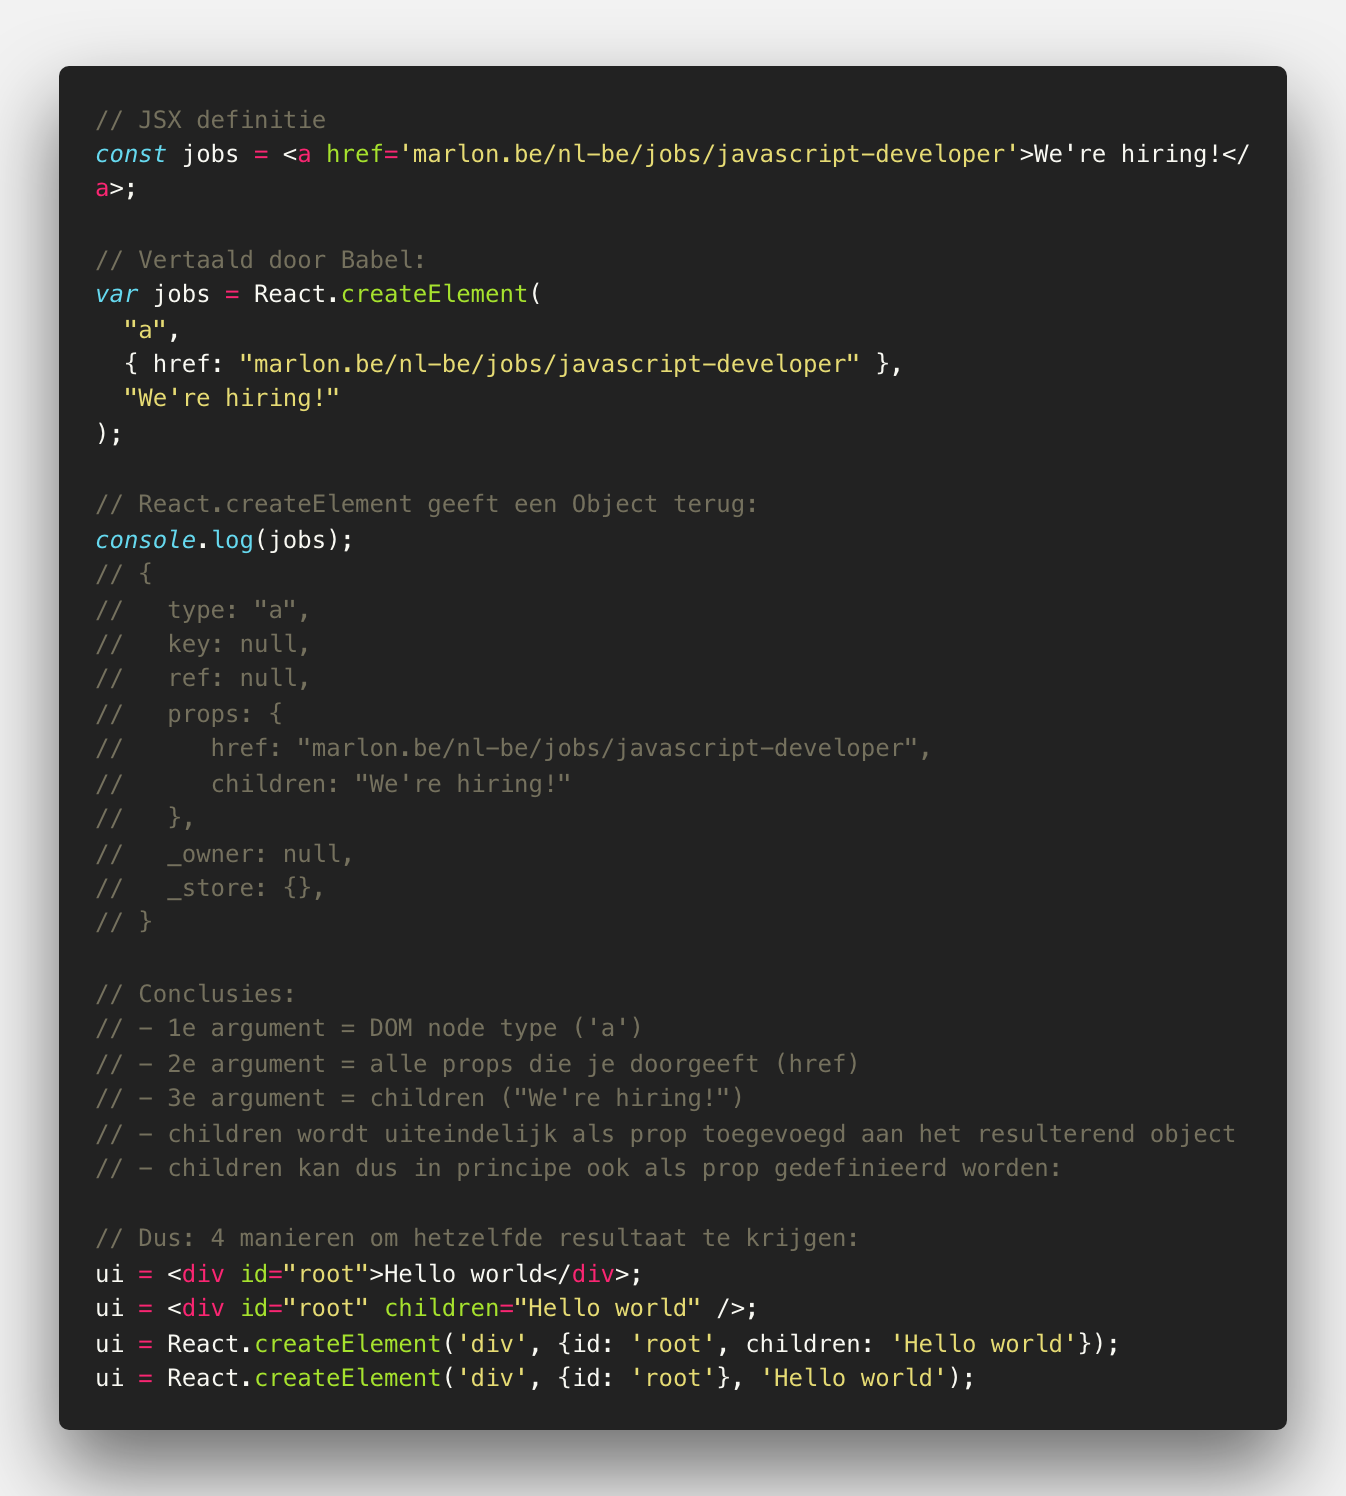
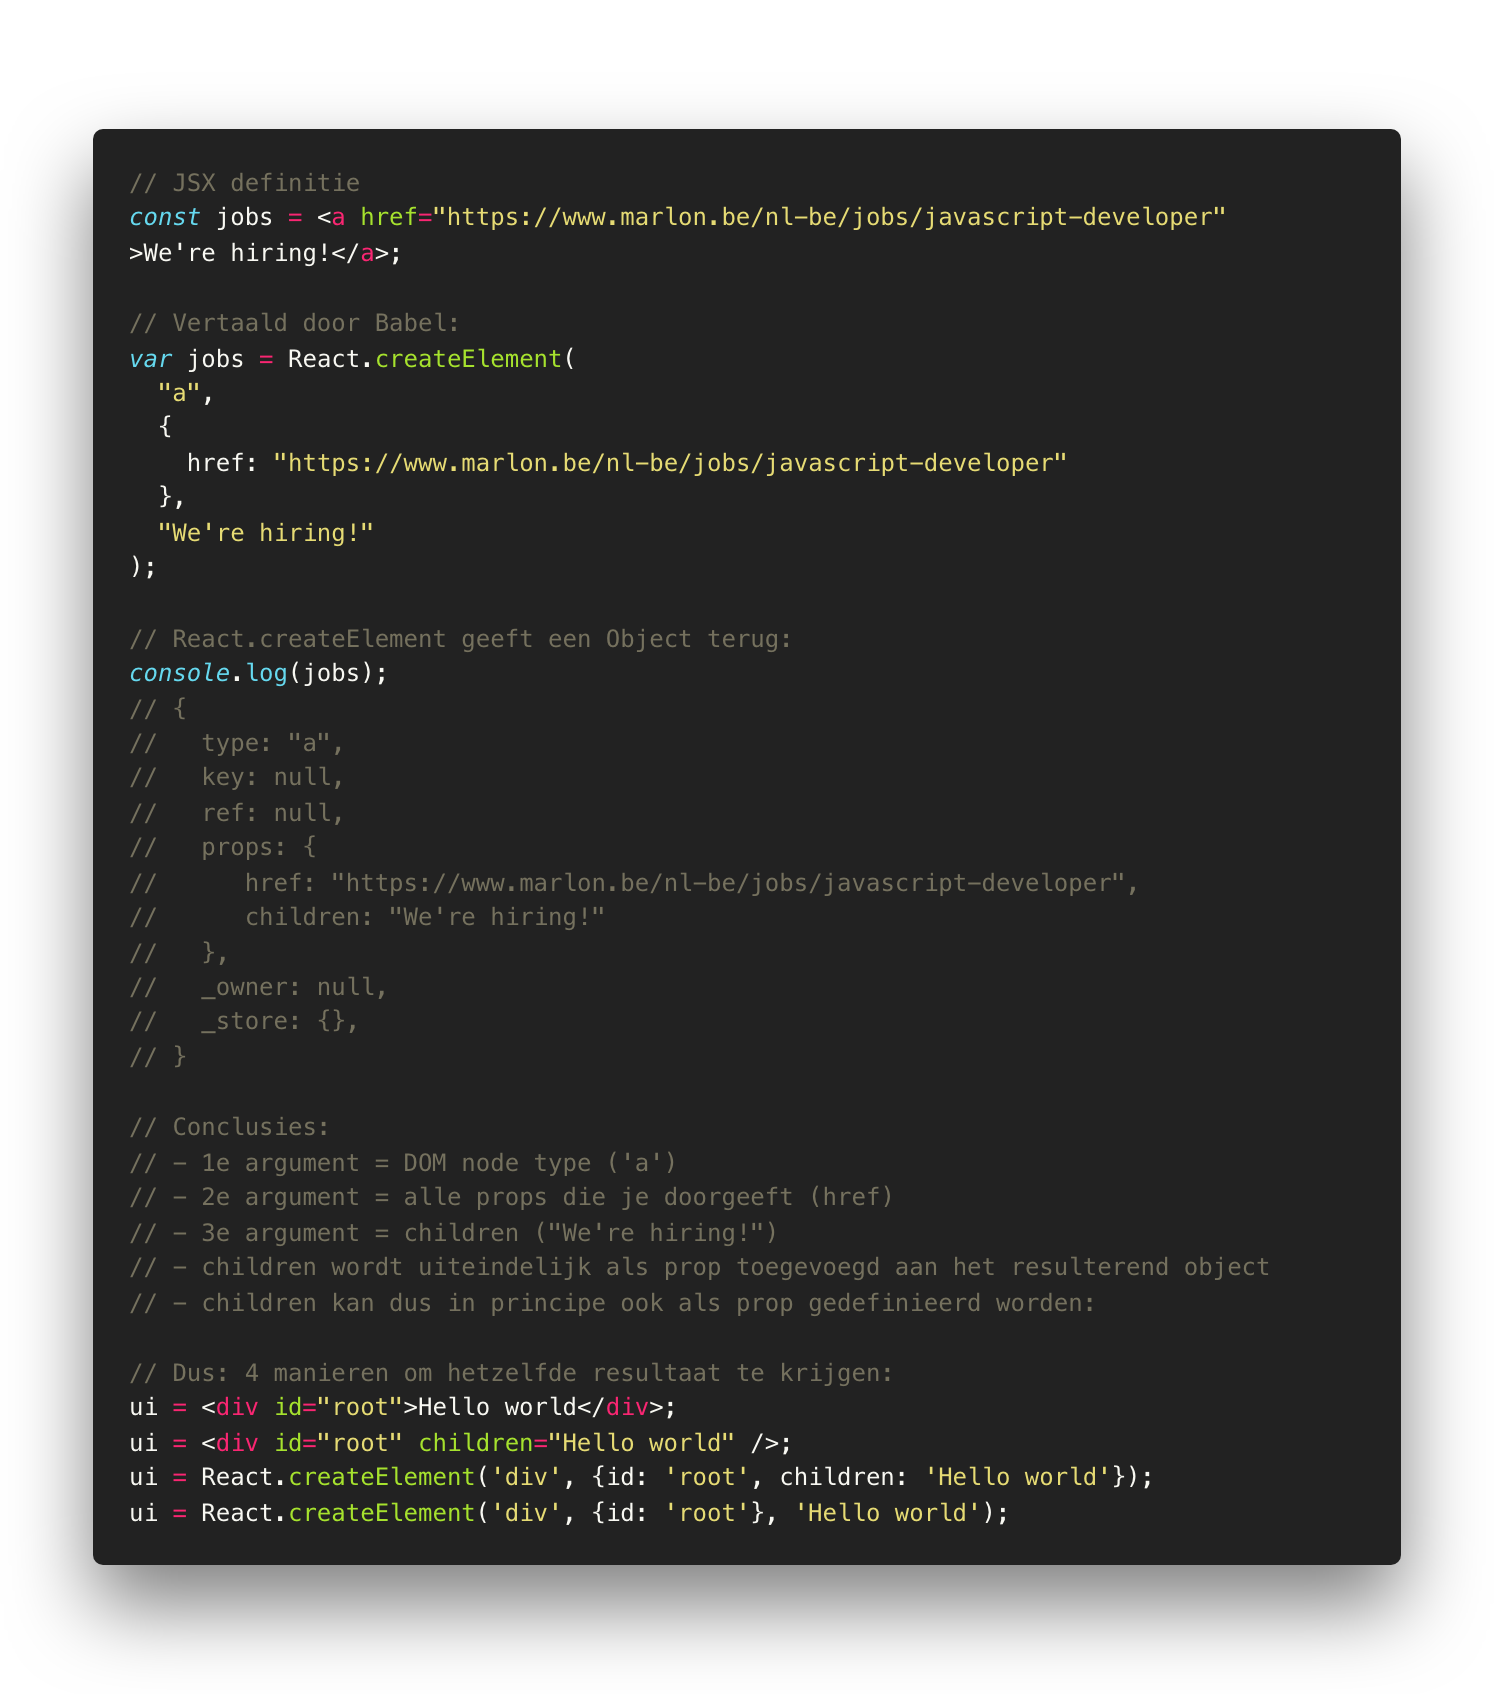
Update screenshots

diff --git a/README.md b/README.md
@@ -12,7 +12,7 @@ Er zijn verschillende manieren om dit te doen. Zo kan je gemakkelijk een kijkje 
 
 ```javascript
 // JSX definitie
-const jobs = <a href='https://www.marlon.be/nl-be/jobs/javascript-developer'>We're hiring!</a>;
+const jobs = <a href="https://www.marlon.be/nl-be/jobs/javascript-developer">We're hiring!</a>;
 
 // Vertaald door Babel:
 var jobs = React.createElement(
